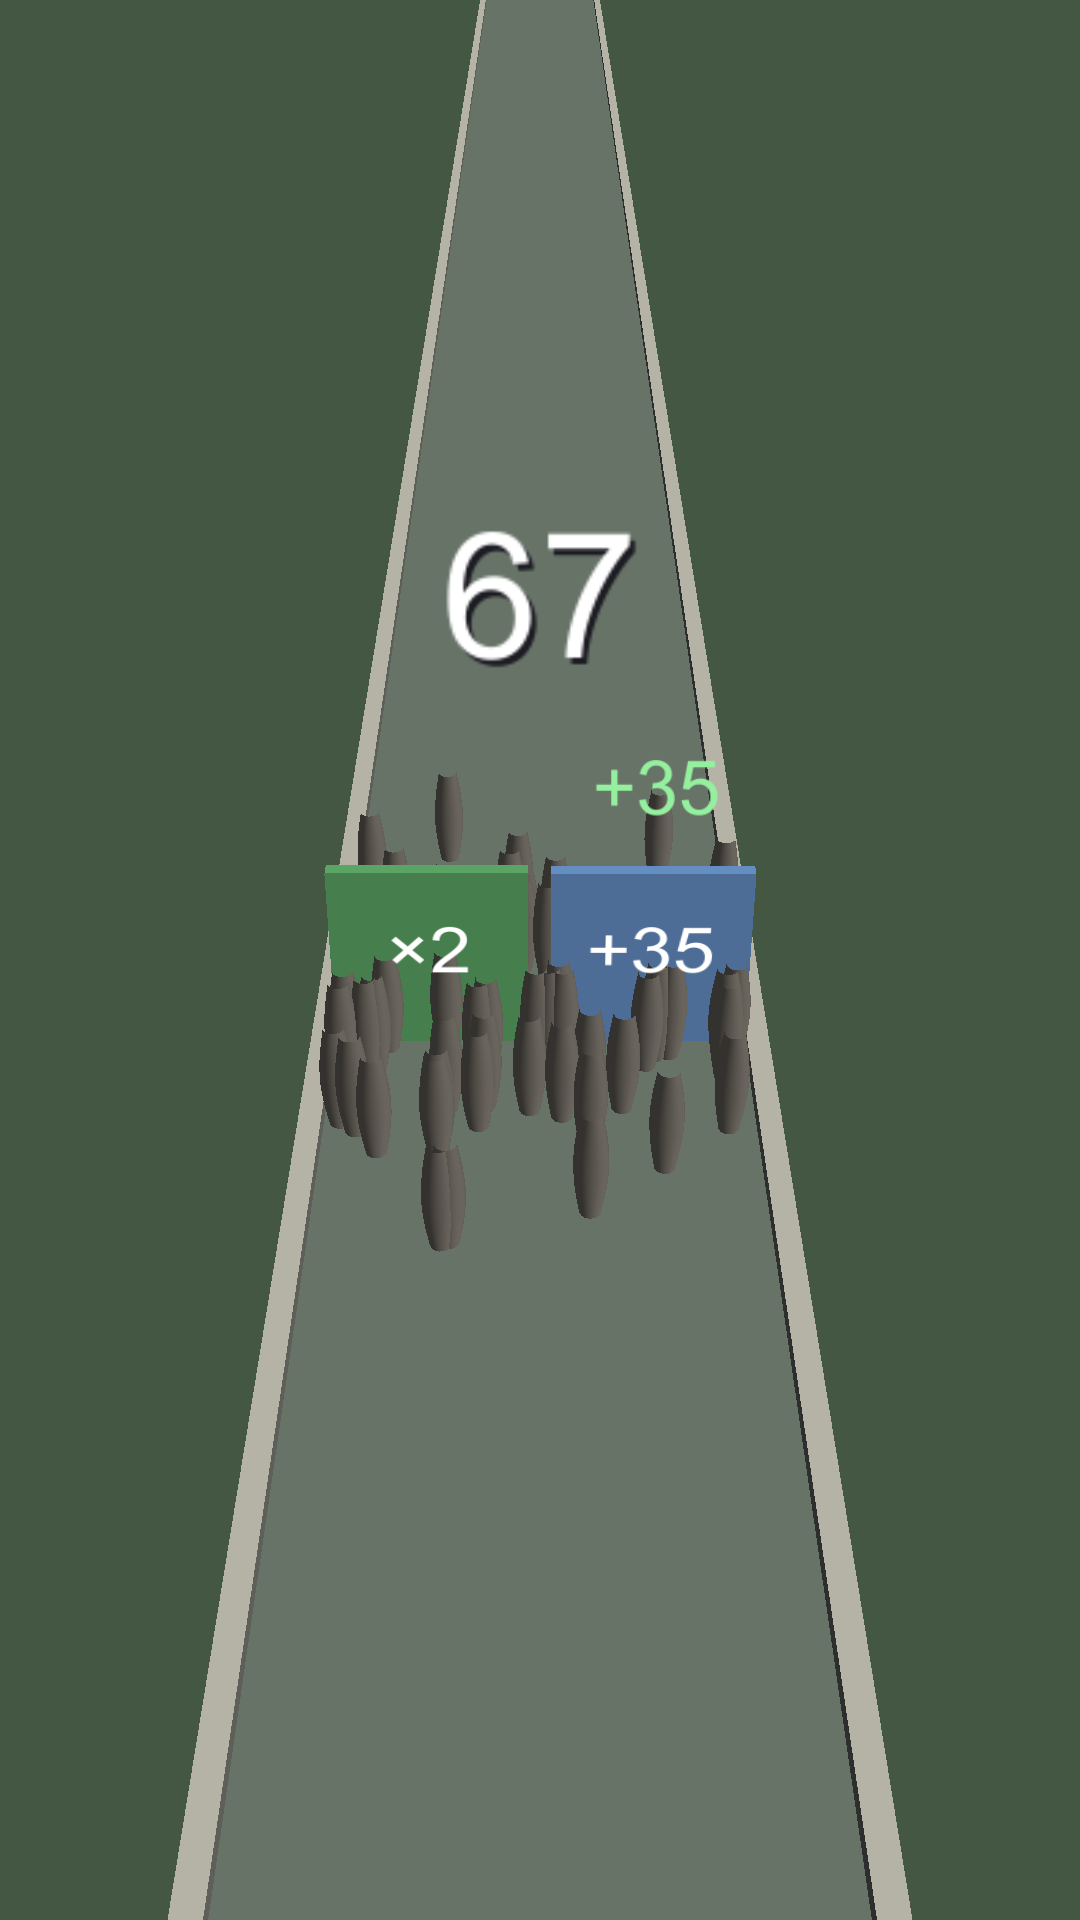
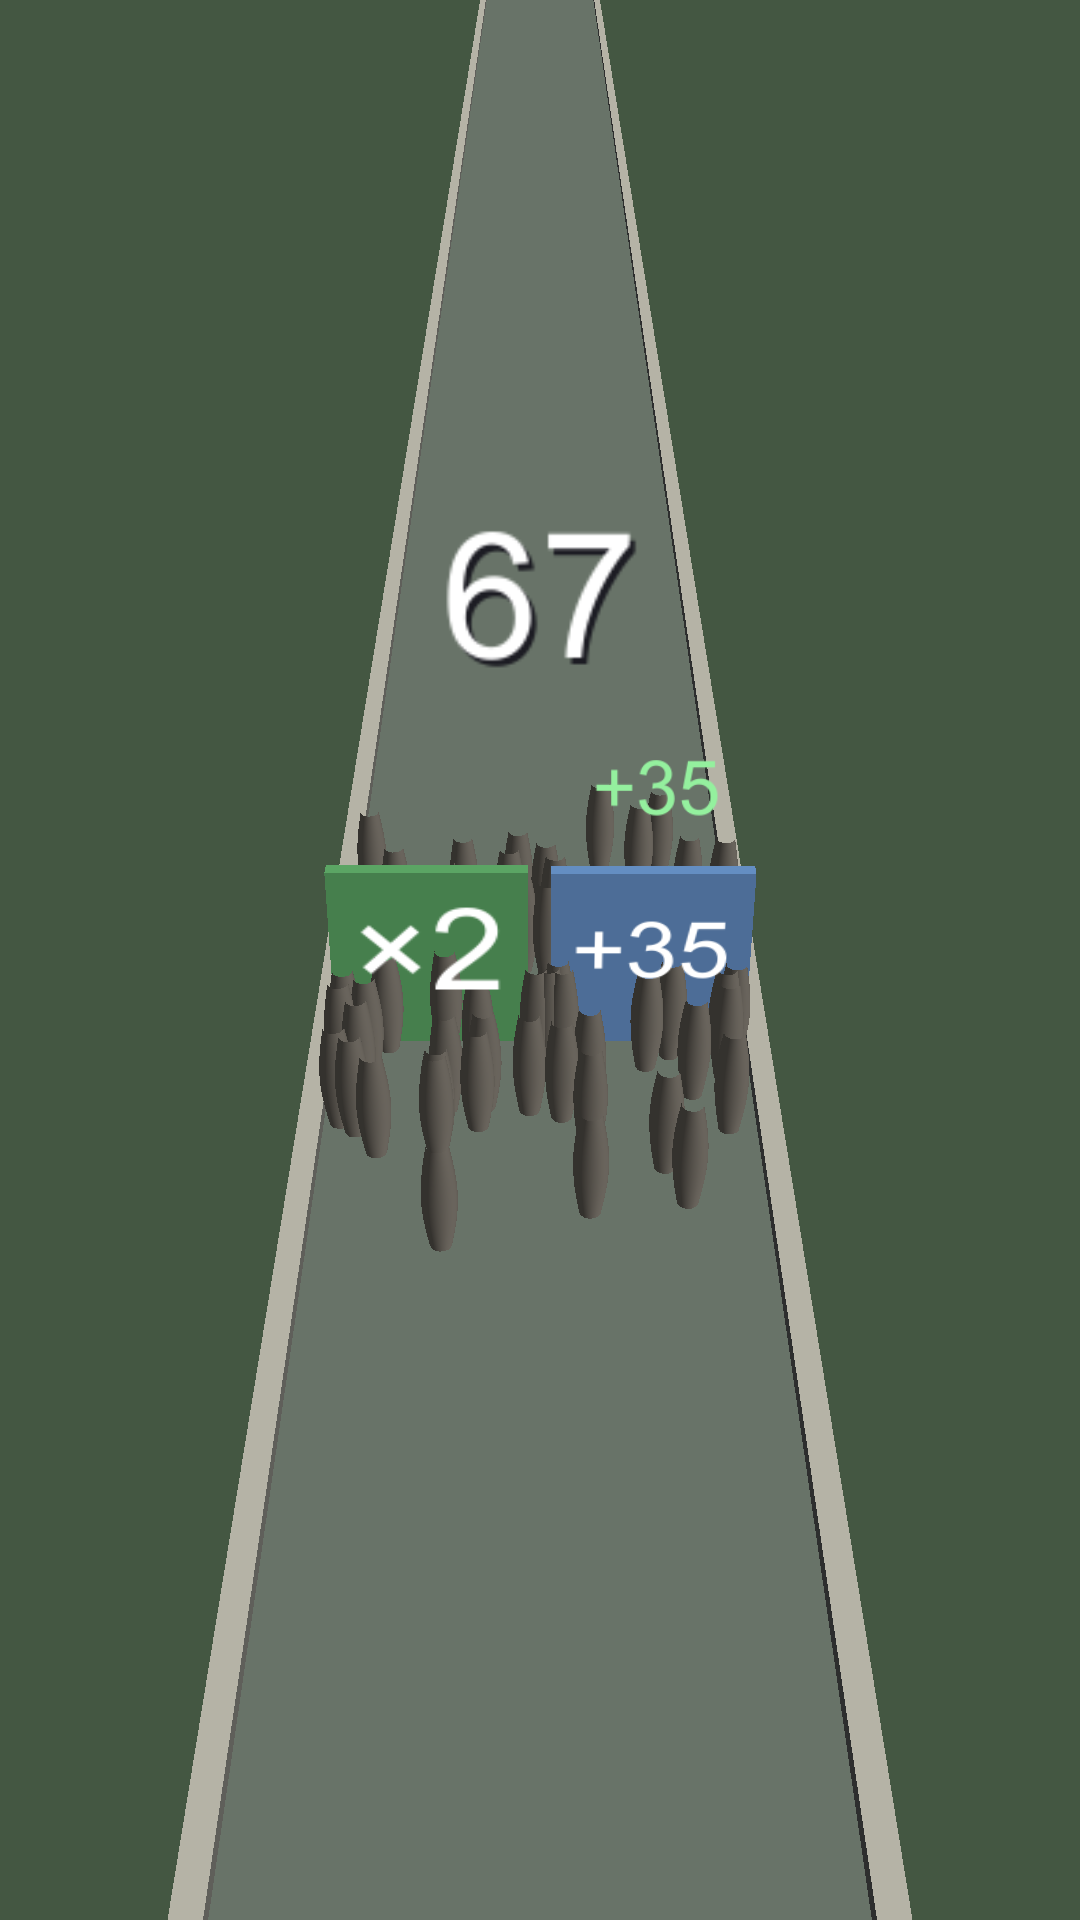
fix(view): every level was 1-1, and the zone painted a choice away
둘 다 "그럴듯한 그림"이라 오래 갔다.

## GameBoot.Go 가 어떤 이름을 받든 1-1 을 띄웠다

`AddComponent<LevelRunner>()` 가 그 자리에서 Awake 를 돌리고, Awake 는 기본값
`levelName = "1-1"` 로 판을 읽는다. 다음 줄에서 levelName 에 넣은 값은 이미
읽은 뒤라 아무 일도 안 한다.

안 들킨 이유가 더 나쁘다: 로그가 **요청한 이름**을 1-1 의 숫자 옆에 찍었다.
`level=1-10 units=10 road=7.0m events=2` 는 그럴듯하게 생겼고, 다섯 판이 전부
똑같은 수를 낸 뒤에야 보였다. 이제 뷰를 붙인 뒤 Load(level) 을 다시 부르고,
로그는 **읽힌 판의 이름**을 찍으며, 요청과 다르면 오류다.

영향: PlayUntilResult 는 flow.StartLevel 을 거치므로 "안 만지면 1-9 에서 막힌다"
와 게임 화면 사진은 무사하다. 틀린 것은 오늘 만든 글자 검사 하나다.

## 차선이 정해진 지역이 길 전체를 칠했다

1-7 은 `zone 35 … lane L` 이라 왼쪽에서만 녹는데(Sim: Side != e.lane 이면 건너뛴다)
화면은 양쪽을 칠했다. 그러면 화면이 "어느 쪽으로 가도 녹는다" 라고 말하고,
플레이어는 있지도 않은 위험을 피한다 — 틀린 그림이 아니라 **없어진 선택**이다.
1-7 의 질문은 "×3 먹고 녹을래, +25 로 안전할래" 인데 그게 화면에서 사라져 있었다.

표현이 규칙보다 좁게 말하면 플레이어가 속고, 넓게 말하면 선택이 죽는다.

## 같이 들어간 것

- 게이트 글자를 **자기 문의 80 % 안에** 맞춘다(FitLabel). 배수 하나를 고르는 대신
  구조로 막는다 — 1.88 은 `×2`/`+35`(세 글자, 길 7 m)에서 나온 수이고 글자 수도
  길 폭도 판마다 다르다. 상수는 어느 판에서는 붙고 그 판이 어디인지는 아무도 모른다
- 1-7 지역 표식(기둥 둘 + 가로대, 지역과 같은 색·같은 폭). 고르는 그 순간에 보인다
- 검사 셋: 글자 수 == 레벨이 말하는 선택지 수 · 글자가 문 안 · 차선 지정된 것이
  가운데 선을 안 넘는다
- `zone_mark.png` — 1-7 을 시작 지점에서

Changed region(s): [[0.5194, 0.4062, 0.6722, 0.625], [0.3056, 0.4062, 0.4889, 0.5625], [0.4889, 0.4375, 0.5194, 0.4688]]

diff --git a/Assets/Tests/PlayMode/MetaShotTests.cs b/Assets/Tests/PlayMode/MetaShotTests.cs
@@ -326,6 +326,128 @@ namespace CrowdRunner.Tests
         }
 
         /// <summary>
+        /// **차선이 정해진 것은 가운데 선을 안 넘는가.**
+        ///
+        /// 1-7 의 지역은 `lane L` 이라 **왼쪽에서만** 녹는데 (`Sim`: `Side != e.lane` 이면
+        /// 건너뛴다), 화면은 길 **전체**를 칠하고 있었다. 그러면 화면이 *"어느 쪽으로 가도
+        /// 녹는다"* 라고 말하고, 플레이어는 **있지도 않은 위험을 피한다.**
+        ///
+        /// 그건 틀린 그림이 아니라 **없어진 선택**이다. 1-7 의 선택은 *"`×3` 을 먹고 녹을래,
+        /// `+25` 로 안전할래"* 인데 양쪽을 칠하면 그 질문이 화면에서 사라진다 — 이 게임의
+        /// 조작이 그 하나뿐이라 더 그렇다.
+        ///
+        /// 표현이 규칙보다 **좁게** 말하면 플레이어가 속고, **넓게** 말하면 선택이 죽는다.
+        /// 어느 쪽이든 수로 잡을 수 있는 것은 *가운데 선을 넘었나* 하나다.
+        /// </summary>
+        static void AssertLaneThingsStayInTheirLane()
+        {
+            var runner = GameBoot.Runner;
+            var lvl = runner != null ? runner.Level : null;
+            if (lvl == null) return;
+            int lanes = 0;
+            foreach (var e in lvl.events)
+            {
+                if (e.kind != EventKind.Zone || e.lane == 0) continue;
+                lanes++;
+                foreach (var t in Object.FindObjectsByType<Transform>(FindObjectsSortMode.None))
+                {
+                    if (t.name != "Zone" && t.name != "ZoneMark") continue;
+                    if (Mathf.Abs(t.position.z - (e.z + (t.name == "Zone" ? e.zoneLength * 0.5f : 0f))) > 1f) continue;
+                    float near = t.position.x - t.localScale.x * 0.5f;
+                    float far = t.position.x + t.localScale.x * 0.5f;
+                    // 왼쪽(-1) 것이면 오른쪽 끝이 0 을 넘으면 안 된다. 기둥은 경계에 서므로 여유를 둔다
+                    float over = e.lane < 0 ? far : -near;
+                    Assert.LessOrEqual(over, 0.4f,
+                        $"{t.name} 이 lane {(e.lane < 0 ? "L" : "R")} 인데 가운데 선을 {over:F2} m 넘었다 — " +
+                        "화면이 규칙보다 넓게 말하면 있지도 않은 위험을 피하게 되고, 그 판의 선택이 사라진다");
+                }
+            }
+            Debug.Log($"[CR-TEST] 차선 지정 지역 {lanes} 개 · 전부 자기 차선 안");
+        }
+
+        /// <summary>
+        /// **글자가 자기 문 안에 들어가는가** — 두 선택지가 겹치지 않는다는 것을 *배수*가 아니라
+        /// **구조**로 보장한다.
+        ///
+        /// 처음에는 "1.88 배까지 안 붙는다" 를 재서 그 배수를 쓰려 했다. 그 수는 `×2`/`+35`
+        /// (두세 글자, 길 7 m)에서 나온 것이고, 세션 A 가 전 경로를 돌려 잰 **최대 증감은
+        /// `+100`(네 글자, 1-5)** 이다. 길 폭도 판마다 다르다. **상수 하나는 어느 판에서는
+        /// 붙고, 그 판이 어디인지는 아무도 모른다** — 그래서 글자를 자기 네모에 맞추고
+        /// (`LevelView.FitLabel`) 여기서는 *정말 들어갔는지* 를 전 판에서 확인한다.
+        ///
+        /// 네모끼리 안 겹치므로, 글자가 네모 안이면 글자도 안 겹친다. 재는 쪽이 아니라
+        /// **못 틀리게 만드는 쪽**이다.
+        /// </summary>
+        static void AssertGateLabelsFitTheirGate(string code)
+        {
+            int n = 0; float worst = 0f; string worstText = "";
+            foreach (var tm in Object.FindObjectsByType<TextMesh>(FindObjectsSortMode.None))
+            {
+                if (tm.gameObject.name != "GateText") continue;
+                var r = tm.GetComponent<Renderer>();
+                var box = tm.transform.parent;
+                if (r == null || box == null) continue;
+                float share = r.bounds.size.x / Mathf.Max(0.01f, box.localScale.x);
+                n++;
+                if (share > worst) { worst = share; worstText = tm.text; }
+                Assert.LessOrEqual(share, 0.92f,
+                    $"{code}: 게이트 글자 '{tm.text}' 가 자기 네모의 {share * 100f:F0}% 를 차지한다 — " +
+                    "두 선택지가 붙어 보인다 (LevelView.FitLabel / GateCharWidth 를 보라)");
+            }
+            // **레벨이 말하는 수와 맞는가.** 이 한 줄이 없어서 다섯 판이 전부 '글자 2 개' 를
+            // 찍는 것을 보고도 한참 뒤에야 알았다 — `GameBoot.Go` 가 어떤 이름을 받든 1-1 을
+            // 띄우고 있었다. 세 판이 **똑같은 수**를 낸 것이 유일한 단서였다
+            var lvl = GameBoot.Runner != null ? GameBoot.Runner.Level : null;
+            int want = 0;
+            if (lvl != null)
+                foreach (var e in lvl.events)
+                    if (e.kind == EventKind.Gate) want += e.options.Length;
+            Debug.Log($"[CR-TEST] {code}: 게이트 글자 {n} 개 (레벨이 말하는 수 {want}) · " +
+                      $"가장 꽉 찬 것 '{worstText}' {worst * 100f:F0}%");
+            Assert.AreEqual(want, n,
+                $"{code}: 레벨에는 선택지가 {want} 개인데 화면에 글자는 {n} 개다 — " +
+                "띄운 판이 달라졌거나 게이트를 덜 세웠다");
+        }
+
+        /// <summary>
+        /// 가장 긴 글자가 있는 판들에서 맞춤 규칙을 확인하고, **1-7 의 지역 표식**을 한 장 찍는다.
+        ///
+        /// 1-7 은 게이트를 고르고 2.2 초 뒤에 지역이 시작한다 — 바닥 색판만으로는 고를 때
+        /// 앞에 무엇이 있는지 모른다. 표식이 **고르는 순간 보이는지**는 그림으로만 알 수 있다.
+        /// </summary>
+        [UnityTest, Timeout(300000)]
+        public IEnumerator Gate_Labels_Fit_And_The_Zone_Is_Announced()
+        {
+            foreach (var code in new[] { "1-5", "1-10", "1-7" })
+            {
+                GameBoot.Go(code);
+                yield return null;
+                yield return null;
+                AssertGateLabelsFitTheirGate(code);
+            }
+
+            var runner = GameBoot.Runner;      // 마지막은 1-7
+            Assert.IsNotNull(runner.Sim, "1-7 을 못 띄웠다 — " + runner.Error);
+            float zoneZ = float.NaN;
+            foreach (var e in runner.Level.events)
+                if (e.kind == EventKind.Zone) { zoneZ = e.z; break; }
+            if (float.IsNaN(zoneZ)) { Debug.LogWarning("[CR-TEST] 1-7 에 지역이 없다"); yield break; }
+
+            float prev = Time.timeScale;
+            Time.timeScale = 20f;
+            // **고르는 자리에서 찍는다.** 지역 바로 앞이 아니라 43 m 뒤 — 게이트 숫자가
+            // 읽히기 시작하는 그 거리다. 거기서 표식이 보여야 "알고 들어간다" 가 된다
+            for (int i = 0; i < 30000 && runner.Sim != null && runner.Sim.Z < zoneZ - 43f; i++)
+                yield return null;
+            Time.timeScale = prev;
+            yield return null;
+            AssertLaneThingsStayInTheirLane();
+            float share = ShotWorld("zone_mark", runner);
+            Debug.Log($"[CR-TEST] 1-7 지역 표식: 지역 z={zoneZ:F0} · 지금 z={runner.Sim.Z:F0} " +
+                      $"(43m 앞) · 그려진 화소 {share:F1}%");
+        }
+
+        /// <summary>
         /// **게이트 글자를 키워도 되는가** — 세션 A 가 물은 것에 짐작 말고 수로 답한다.
         ///
         /// 읽히는 거리(43 m)는 **글자 크기가 정한다.** 키우면 더 멀리서 읽히지만, 한 게이트의

diff --git a/Assets/_Game/Scripts/Game/LevelView.cs b/Assets/_Game/Scripts/Game/LevelView.cs
@@ -138,7 +138,10 @@ namespace CrowdRunner.View
                 if (e.kind == EventKind.Gate)
                     foreach (var o in e.options) { g.Add(Gate(e.z, o)); gz.Add(e.z); gl.Add(o.lane); }
                 else if (e.kind == EventKind.Zone)
+                {
                     z.Add(Zone(e));
+                    ZoneMarks(e, z);
+                }
                 else if (e.kind == EventKind.Wall)
                 {
                     wall = Box("Wall", new Color(0.52f, 0.46f, 0.40f));
@@ -347,7 +350,40 @@ namespace CrowdRunner.View
             lab.transform.localScale = new Vector3(0.55f / Mathf.Max(0.1f, t.localScale.x),
                                                    0.55f / t.localScale.y, 1f);
             lab.text = Sign(o.op) + o.value;
+            FitLabel(lab, t.localScale.x * 0.80f);
             return t;
+        }
+
+        /// <summary>
+        /// **글자를 자기 문 안에 맞춘다** — 배수 하나를 고르지 않는 이유.
+        ///
+        /// 읽히는 거리(43 m)는 글자 크기가 정하므로 키우고 싶다. 그런데 한 게이트의 두 선택지는
+        /// 몇 m 밖에 안 떨어져 있고, **붙으면 둘 다 못 읽는다** — 멀리서 읽히게 만든 대가로
+        /// 가까이서 못 읽게 되는 것이다.
+        ///
+        /// 처음에는 "1.88 배까지 안 붙는다" 를 재서 1.5 배를 쓰려 했다. **그 방식이 틀렸다.**
+        /// 그 1.88 은 `×2`/`+35`(두세 글자, 길 7 m)에서 나온 수인데, 세션 A 가 전 경로를 돌려
+        /// 잰 최대 증감은 **`+100`(네 글자, 1-5)** 이고 길 폭도 판마다 다르다. 상수 하나는
+        /// *어느 판에서는* 붙고, 그 판이 어디인지는 아무도 모른다.
+        ///
+        /// 그래서 **글자가 자기 네모의 80 % 안에 들어가게** 한다. 그러면 두 글자가 겹치는 일이
+        /// **구조적으로 없다** — 네모끼리 안 겹치니까. 글자 수가 늘면 저절로 작아지고 길이
+        /// 좁아져도 저절로 맞는다. 짧은 글자(`×2`)는 커져서 더 멀리서 읽힌다.
+        ///
+        /// 글자당 폭 `0.68 m` 는 **잰 수**다 (`+35` 세 글자 = 2.04 m, `MetaShotTests` 가
+        /// `Renderer.bounds` 로 다시 확인한다). 글꼴을 바꾸면 이 수도 다시 재야 한다.
+        /// </summary>
+        const float GateCharWidth = 0.68f;
+
+        static void FitLabel(TextMesh lab, float maxWidth)
+        {
+            int chars = Mathf.Max(1, lab.text.Length);
+            float want = chars * GateCharWidth;
+            // 키우는 쪽은 1.8 배에서 멈춘다 — `×2` 가 문을 넘칠 만큼 커지면 숫자가 아니라
+            // 무늬로 보이고, 두 선택지의 **크기 차이**가 값의 차이로 오해된다
+            float k = Mathf.Clamp(maxWidth / Mathf.Max(0.01f, want), 0.45f, 1.8f);
+            var sc = lab.transform.localScale;
+            lab.transform.localScale = new Vector3(sc.x * k, sc.y * k, sc.z);
         }
 
         static string Sign(GateOp op) =>
@@ -357,10 +393,53 @@ namespace CrowdRunner.View
         {
             // 지역은 머릿수에 비례해 깎는다 (세션 A) — **큰 군단이 지나갈 때 눈에 보이게 많이
             // 녹아야** 대가가 느껴진다. 그 연출은 다음 단위이고, 지금은 *바닥이 보이는 것*까지다
+            // **차선이 정해진 지역은 그 차선만 칠한다.** 길 전체를 칠하면 화면이
+            // *"어느 쪽으로 가도 녹는다"* 라고 말하는데, 규칙은 `Side != e.lane` 이면
+            // 안 녹는다 (`Sim`). 1-7 이 바로 그 판이다: `zone 35 … lane L` 이라
+            // **`×3` 쪽만 녹는데** 양쪽을 칠해서 그 선택이 화면에서 지워져 있었다.
+            //
+            // 표현이 규칙보다 **넓게** 말하면 플레이어는 있지도 않은 위험을 피한다. 그건
+            // 틀린 그림이 아니라 **없어진 선택**이다 — 이 게임의 조작이 그 하나뿐이라 더 그렇다.
+            float rw = runner.Level != null ? runner.Level.roadWidth : 8f;
+            float zw = e.lane != 0 ? rw * 0.5f : rw;
+            float zx = e.lane != 0 ? e.lane * rw * 0.25f : 0f;
             var t = Box("Zone", new Color(0.66f, 0.38f, 0.56f, 1f));
-            t.localScale = new Vector3(runner.Level != null ? runner.Level.roadWidth : 8f, 0.06f, e.zoneLength);
-            t.position = new Vector3(0f, 0.01f, e.z + e.zoneLength * 0.5f);
+            t.localScale = new Vector3(zw, 0.06f, e.zoneLength);
+            t.position = new Vector3(zx, 0.01f, e.z + e.zoneLength * 0.5f);
             return t;
+        }
+
+        /// <summary>
+        /// **녹는 구간을 멀리서 보이게 한다** — 바닥 색판은 가까이 와야 길과 구분된다.
+        ///
+        /// 1-7 은 게이트를 고르고 **2.2 초 뒤**에 지역이 시작한다 (세션 A 측정). 그 판이
+        /// 가르치려는 것은 *녹는 길* 인데, **가르쳐지기 전에 벌어진다** — 플레이어는 고를 때
+        /// 앞에 무엇이 있는지 모르고, 그러면 손해가 *선택의 결과*가 아니라 *사고*가 된다.
+        ///
+        /// 세워 두면 고르는 **그 순간에** 보인다. 2.2 초는 그대로지만 *예고 없이 당한다* 가
+        /// *알고 들어간다* 로 바뀐다 — 페이싱을 안 건드리고 그 몫을 줄이는 길이다.
+        /// 지역과 **같은 색**을 쓴다: 표식과 바닥이 다른 색이면 둘이 같은 것임을 못 배운다.
+        /// </summary>
+        void ZoneMarks(LevelEvent e, System.Collections.Generic.List<Transform> into)
+        {
+            float rw = runner.Level != null ? runner.Level.roadWidth : 8f;
+            // 바닥과 **같은 폭·같은 자리**에 선다 — 표식이 바닥보다 넓으면 표식 쪽이 거짓말을
+            // 하고, 플레이어는 멀리서 표식부터 본다
+            float w = e.lane != 0 ? rw * 0.5f : rw;
+            float cx = e.lane != 0 ? e.lane * rw * 0.25f : 0f;
+            var col = new Color(0.66f, 0.38f, 0.56f, 1f);
+            for (int i = 0; i < 2; i++)
+            {
+                var post = Box("ZoneMark", col);
+                post.localScale = new Vector3(0.30f, 3.4f, 0.30f);
+                post.position = new Vector3(cx + (i == 0 ? -1f : 1f) * w * 0.5f, 1.7f, e.z);
+                into.Add(post);
+            }
+            // 가로대 — 그 차선 위를 가로지르므로 **거기로 들어간다**는 것이 모양으로 읽힌다
+            var bar = Box("ZoneMark", col);
+            bar.localScale = new Vector3(w, 0.40f, 0.30f);
+            bar.position = new Vector3(cx, 3.2f, e.z);
+            into.Add(bar);
         }
 
         Transform Box(string name, Color c)

diff --git a/Assets/_Game/Scripts/Game/GameBoot.cs b/Assets/_Game/Scripts/Game/GameBoot.cs
@@ -107,6 +107,15 @@ namespace CrowdRunner
             // 부르므로 그때 뷰가 있어야 게이트·벽이 세워진다 — `AddComponent` 가 즉시
             // `Awake` 를 돌리기 때문에 순서가 결과를 바꾼다
             go.AddComponent<LevelView>();
+            // **다시 읽는다.** `AddComponent<LevelRunner>()` 는 그 자리에서 `Awake` 를 돌리고,
+            // `Awake` 는 **기본값** `levelName = "1-1"` 로 판을 읽는다. 위에서 `levelName` 에
+            // 넣은 값은 **이미 읽은 뒤**라 아무 일도 안 한다 — 그래서 어떤 판을 달라고 해도
+            // 늘 1-1 이 떴다.
+            //
+            // 들키지 않은 이유가 더 나쁘다: 아래 로그가 **요청한 이름**을 1-1 의 숫자 옆에
+            // 찍었다. `level=1-10 units=10 road=7.0m events=2` 는 그럴듯하게 생겼고, 다섯 판이
+            // 전부 **똑같은 수**를 낸 뒤에야 보였다. 같은 수가 나오면 같은 것을 보고 있는 것이다.
+            runner.Load(level);
             // **오버레이는 판보다 오래 산다.** 판 오브젝트의 자식으로 두면 다음 판을 띄울 때
             // 같이 죽고, 메타 화면(월드맵·카드·결과)은 **그 캔버스의 자식**이라 통째로 사라진다.
             // 증상은 "결과 화면이 빈다" 인데 원인은 레벨을 바꾼 쪽에 있다 — 가장 찾기 어려운 모양
@@ -117,8 +126,14 @@ namespace CrowdRunner
             if (runner.Sim == null)
                 Debug.LogError("[CR] 판을 못 띄웠다: " + runner.Error);
             else
-                Debug.Log($"[CR] level={level} units={runner.Sim.Units} road={runner.Sim.RoadWidth:F1}m " +
-                          $"events={runner.Level.events.Count}");
+            {
+                // **읽힌 판의 이름을 찍는다** — 요청한 이름이 아니라. 둘이 다를 수 있다는 것이
+                // 위 버그의 전부였고, 로그가 요청한 쪽을 찍는 한 그 차이는 영원히 안 보인다
+                if (runner.levelName != level)
+                    Debug.LogError($"[CR] {level} 을 달라고 했는데 {runner.levelName} 이 떴다");
+                Debug.Log($"[CR] level={runner.levelName} units={runner.Sim.Units} " +
+                          $"road={runner.Sim.RoadWidth:F1}m events={runner.Level.events.Count}");
+            }
             return runner;
         }
 
